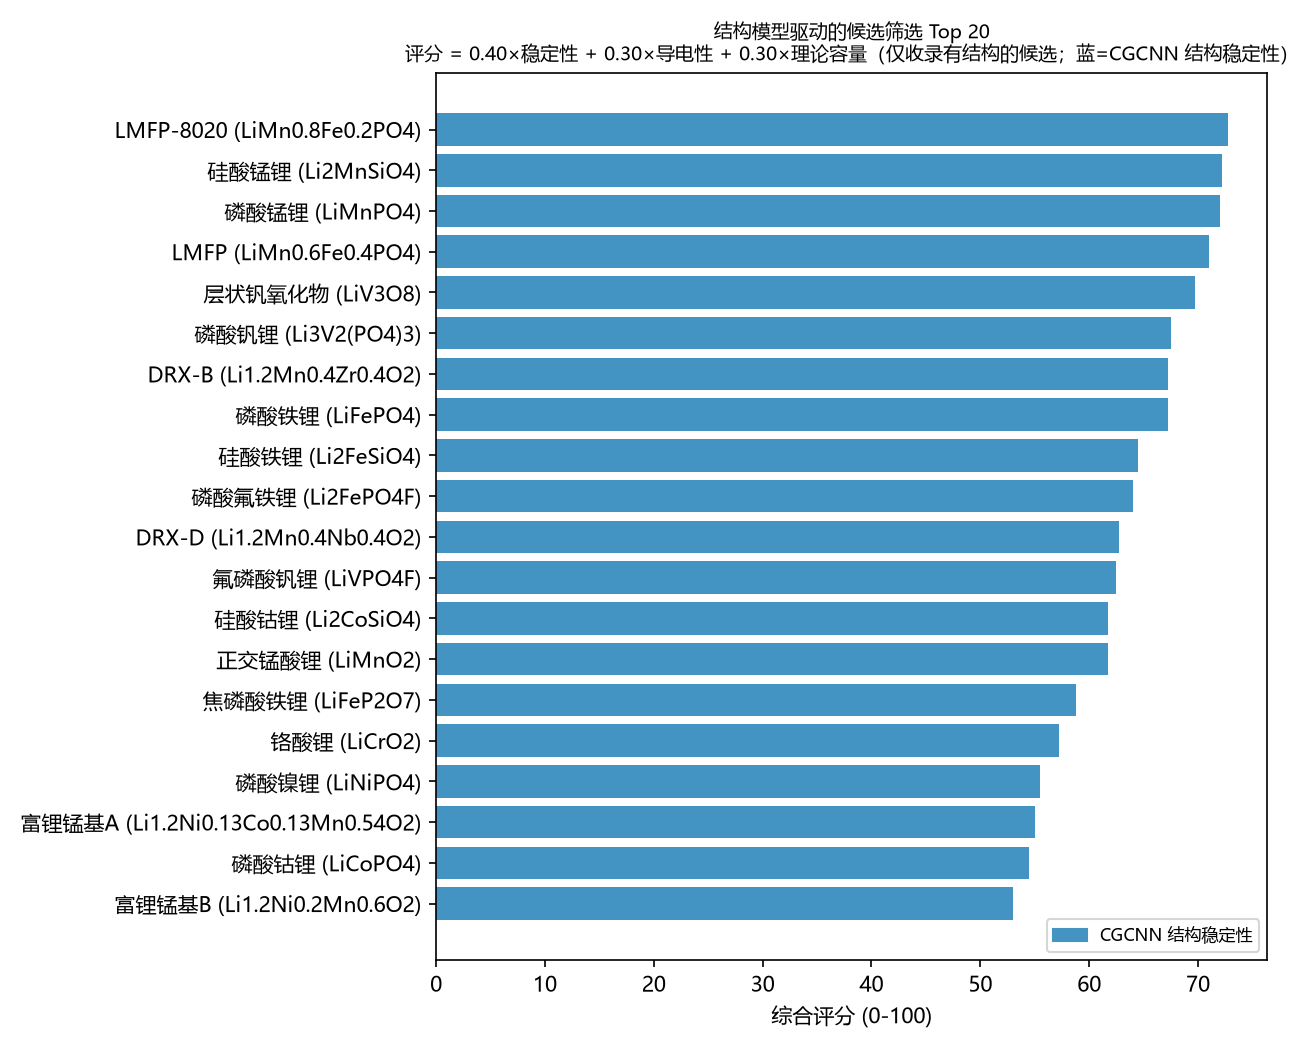
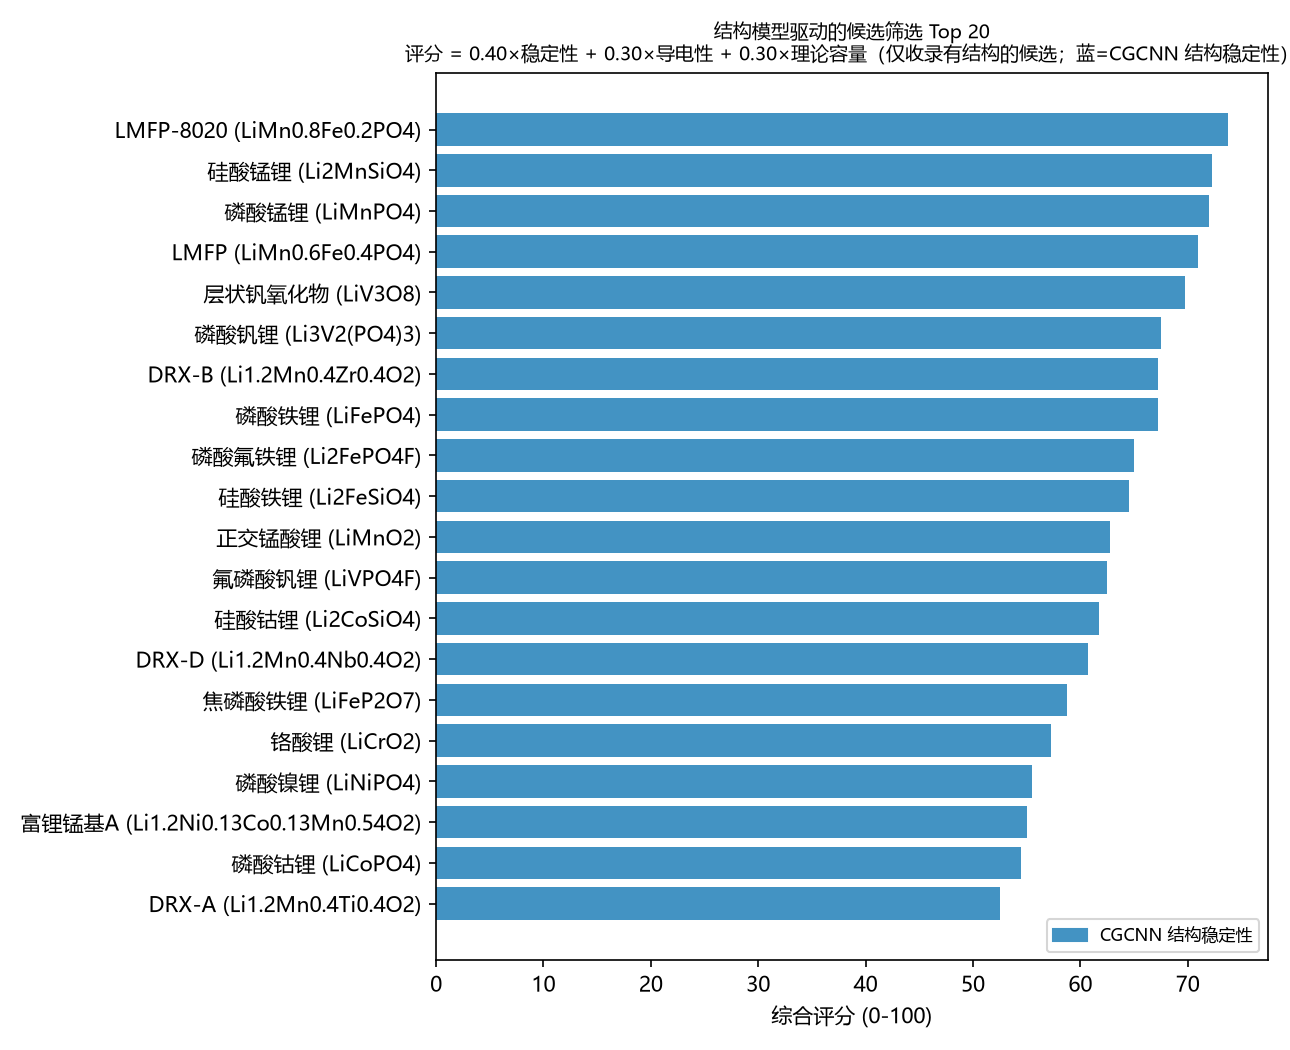
release: v1.14.0 - 评分改用系综均值 + 1σ 保守估计
变更
- screening_struct.py 评分口径升级为 conservative_1sigma：
    系综来源候选的稳定性/带隙点预测改用**系综均值**（保留 cgcnn_ef_best_member_eV_atom 对照）
    稳定性评分用 mean+σ（更不稳定一侧）；导电性在带隙上加 σ（更绝缘一侧）
    无误差条的候选 σ=0 -> 退化为点预测，口径统一、同层可比
    新增列 n_decorations / ef_ens_mean_eV_atom / gap_ens_mean_eV /
           stability_conservative_eV_atom / gap_conservative_eV
- metrics 新增 scoring_mode 与 decoration_noise.n_ensemble_candidates

语义说明（避免误读）
- σ 是结构装饰噪声；默认导电性评分用实验口径成分带隙时，它是"结构数据质量较低"的保守惩罚；
  配合 --prefer-struct-gap 时 σ 才是结构带隙的不确定度（代码与 metrics 均已写明）

实测影响
- DRX-B: best member -2.641 -> 系综均值 -2.624 -> 1σ 保守 -2.613（σ 0.011）
- DRX-A: best member -1.877 -> 系综均值 -1.944 -> 1σ 保守 -1.883（σ 0.060）
- DRX-C: best member -1.877 -> 系综均值 -1.916 -> 1σ 保守 -1.864（σ 0.052）
- 带隙 σ 最大者 NMC622 = 0.261 eV，导电性维度被明确降权

测试 161 -> 163（162 通过 + 1 条件跳过）；版本 1.13.0 -> 1.14.0

diff --git a/src/screening_struct.py b/src/screening_struct.py
@@ -290,7 +290,14 @@ def main(argv=None) -> int:
                     origin[f_] = "无序系综(CHGNet)"
                     struct_ids[f_] = r.get("material_id", f"ens:{f_}")
                     e = r.get("ensemble") or {}
-                    ens_stats[f_] = (e.get("cgcnn_ef_std_eV_atom"), e.get("cgcnn_gap_std_eV"))
+                    ens_stats[f_] = {
+                        "ef_mean": e.get("cgcnn_ef_mean_eV_atom"),
+                        "ef_std": e.get("cgcnn_ef_std_eV_atom"),
+                        "ef_best": e.get("best_member_ef_eV_atom"),
+                        "gap_mean": e.get("cgcnn_gap_mean_eV"),
+                        "gap_std": e.get("cgcnn_gap_std_eV"),
+                        "n_decorations": e.get("n_decorations"),
+                    }
                     n_ens += 1
             print(f"无序系综代表结构补充: {n_ens} 条 → 结构覆盖 {len(struct_map)}/{len(formulas)}")
 
@@ -381,8 +388,22 @@ def main(argv=None) -> int:
         np.where(df["structure_from_prototype"], "B_prototype", "C_none"))
     df["has_struct_voltage"] = df["cgcnn_voltage_V"].notna()
     # 装饰噪声误差条（仅系综来源的候选有值）
-    df["ef_ens_std_eV_atom"] = [ens_stats.get(f, (np.nan, np.nan))[0] for f in formulas]
-    df["gap_ens_std_eV"] = [ens_stats.get(f, (np.nan, np.nan))[1] for f in formulas]
+    def _ens(f, key):
+        return (ens_stats.get(f) or {}).get(key, np.nan)
+
+    df["ef_ens_std_eV_atom"] = [_ens(f, "ef_std") for f in formulas]
+    df["gap_ens_std_eV"] = [_ens(f, "gap_std") for f in formulas]
+    df["ef_ens_mean_eV_atom"] = [_ens(f, "ef_mean") for f in formulas]
+    df["gap_ens_mean_eV"] = [_ens(f, "gap_mean") for f in formulas]
+    df["n_decorations"] = [_ens(f, "n_decorations") for f in formulas]
+
+    # ---- 系综来源的候选：**评分改用系综均值**（单装饰名次不稳，见报告附录 M） ----
+    df["cgcnn_ef_best_member_eV_atom"] = df["cgcnn_ef_eV_atom"]
+    df["cgcnn_gap_best_member_eV"] = df["cgcnn_gap_eV"]
+    ens_mask = df["ef_ens_mean_eV_atom"].notna()
+    df.loc[ens_mask, "cgcnn_ef_eV_atom"] = df.loc[ens_mask, "ef_ens_mean_eV_atom"]
+    df.loc[ens_mask & df["gap_ens_mean_eV"].notna(), "cgcnn_gap_eV"] = \
+        df.loc[ens_mask & df["gap_ens_mean_eV"].notna(), "gap_ens_mean_eV"]
     df["stability_eV_atom"] = df["cgcnn_ef_eV_atom"].where(df["has_structure"],
                                                            df["comp_ef_eV_atom"])
     df["voltage_V"] = df["cgcnn_voltage_V"].where(df["has_struct_voltage"], df["comp_voltage_V"])
@@ -410,14 +431,25 @@ def main(argv=None) -> int:
             q.append(np.nan)
     df["Q_theoretical_mAh_g"] = q
 
-    # ---- 评分（**层内百分位**：跨层不可比，故每层各自归一化） ----
+    # ---- 1σ 保守估计（无误差条时 σ=0） ----
+    #  稳定性：越负越稳定 -> 保守取 ef + σ（更不稳定的一侧），σ 来自结构系综；
+    #  导电性：带隙越大越差 -> 保守取 gap + σ，σ 是**结构装饰噪声**。
+    #  注意：默认导电性评分用的是实验口径的成分带隙（附录 J），此时 σ 不表示
+    #  成分带隙自身的误差，而是"该候选的结构数据质量较低"的保守惩罚；
+    #  若用 --prefer-struct-gap，σ 则正好是结构带隙的不确定度。
+    df["ef_sigma_eV_atom"] = df["ef_ens_std_eV_atom"].fillna(0.0)
+    df["gap_sigma_eV"] = df["gap_ens_std_eV"].fillna(0.0)
+    df["stability_conservative_eV_atom"] = df["stability_eV_atom"] + df["ef_sigma_eV_atom"]
+    df["gap_conservative_eV"] = df["gap_eV"] + df["gap_sigma_eV"]
+
+    # ---- 评分（**层内百分位**：跨层不可比，故每层各自归一化；用 1σ 保守量） ----
     for col in ("pct_stability", "pct_conduction", "pct_capacity"):
         df[col] = np.nan
     for _tier, idx in df.groupby("structure_tier").groups.items():
         sub = df.loc[idx]
-        df.loc[idx, "pct_stability"] = (sub["stability_eV_atom"]
+        df.loc[idx, "pct_stability"] = (sub["stability_conservative_eV_atom"]
                                         .rank(pct=True, ascending=False) * 100)
-        df.loc[idx, "pct_conduction"] = (np.exp(-sub["gap_eV"].clip(lower=0))
+        df.loc[idx, "pct_conduction"] = (np.exp(-sub["gap_conservative_eV"].clip(lower=0))
                                          .rank(pct=True) * 100)
         df.loc[idx, "pct_capacity"] = (sub["Q_theoretical_mAh_g"]
                                        .rank(pct=True) * 100)
@@ -440,7 +472,7 @@ def main(argv=None) -> int:
     df.loc[df["structure_origin"] == "同构替换(CHGNet)",
            "flag"] += "结构为同构替换相(已验证与MP可比);"
     df.loc[df["structure_origin"] == "无序系综(CHGNet)",
-           "flag"] += "结构为无序系综代表(带装饰噪声误差条);"
+           "flag"] += "评分用系综均值(已含1σ保守惩罚);"
     df.loc[df["flag"] == "", "flag"] = "结构&成分一致"
 
     # ---- 分层产物（tier 已在前面算好，此处只做分组与排序） ----
@@ -472,7 +504,9 @@ def main(argv=None) -> int:
 
     OUT.mkdir(exist_ok=True)
     keep = ["rank", "name", "formula", "family", "structure_origin", "cgcnn_ef_eV_atom",
-            "ef_ens_std_eV_atom", "gap_ens_std_eV",
+            "ef_ens_std_eV_atom", "gap_ens_std_eV", "n_decorations",
+            "cgcnn_ef_best_member_eV_atom", "stability_conservative_eV_atom",
+            "gap_conservative_eV",
             "rank_struct", "rank_comp", "rank_shift", "gap_source", "gap_eV",
             "cgcnn_gap_eV", "comp_gap_eV", "gap_diff_eV", "voltage_source", "voltage_V",
             "Q_theoretical_mAh_g", "score", "flag", "struct_material_id"]
@@ -532,13 +566,19 @@ def main(argv=None) -> int:
         "n_from_mp_structure": int((df["structure_origin"] == "MP弛豫").sum()),
         "n_from_polymorph_substitution": int((df["structure_origin"] == "同构替换(CHGNet)").sum()),
         "n_from_ensemble": int((df["structure_origin"] == "无序系综(CHGNet)").sum()),
+        "scoring_mode": "conservative_1sigma",
         "decoration_noise": {
             "ef_std_mean_eV_atom": (None if df["ef_ens_std_eV_atom"].dropna().empty
                                     else round(float(df["ef_ens_std_eV_atom"].mean()), 4)),
             "gap_std_mean_eV": (None if df["gap_ens_std_eV"].dropna().empty
                                 else round(float(df["gap_ens_std_eV"].mean()), 4)),
-            "note": ("无序系综（随机装饰）带来的预测不确定度；"
-                     "稳定性可忽略，带隙需作为误差条引用"),
+            "n_ensemble_candidates": int(df["n_decorations"].notna().sum()),
+            "note": ("无序系综（随机装饰）带来的预测不确定度。评分为 1σ 保守口径："
+                     "稳定性取 mean+σ（更不稳定一侧）；导电性在带隙上加 σ，"
+                     "该 σ 是结构装饰噪声（默认评分用成分带隙时，它代表数据质量惩罚；"
+                     "配合 --prefer-struct-gap 时即为结构带隙的不确定度）。"
+                     "系综候选的稳定性/带隙点预测已改用**系综均值**，"
+                     "并保留 best-member 值供对照。"),
         },
         "polymorph_residual_uncertainty": {
             "n_compared": poly_unc.get("n_compared"),

diff --git a/tests/test_voltage_struct.py b/tests/test_voltage_struct.py
@@ -448,3 +448,37 @@ class TestEnsembleErrorBars:
         if len(ens_rows):
             assert ens_rows["ef_ens_std_eV_atom"].notna().all()
             assert ens_rows["gap_ens_std_eV"].notna().all()
+
+
+class TestConservativeScoring:
+    """1σ 保守评分：系综候选用 mean+σ，无误差条者退化为点预测（v1.14.0）。"""
+
+    METRICS = ROOT / "results" / "metrics_screening_struct.json"
+    RANKED = ROOT / "results" / "cathode_ranking_struct.csv"
+
+    def test_scoring_mode_is_declared(self):
+        if not self.METRICS.exists():
+            pytest.skip("未生成结构筛选指标")
+        m = json.load(open(self.METRICS, encoding="utf-8"))
+        assert m["scoring_mode"] == "conservative_1sigma"
+        assert m["decoration_noise"]["n_ensemble_candidates"] >= 1
+
+    def test_conservative_equals_point_plus_sigma(self):
+        if not self.RANKED.exists():
+            pytest.skip("未生成排序表")
+        d = pd.read_csv(self.RANKED, encoding="utf-8-sig")
+        for col in ("stability_conservative_eV_atom", "gap_conservative_eV",
+                    "cgcnn_ef_best_member_eV_atom"):
+            assert col in d.columns
+        # 无误差条（MP 结构）的候选：保守值 == 点预测
+        plain = d[d["ef_ens_std_eV_atom"].isna()]
+        assert (plain["stability_conservative_eV_atom"]
+                - plain["stability_eV_atom"]).abs().max() < 1e-9
+        # 系综候选：保守值 == 系综均值 + σ，且点预测已换成系综均值
+        ens = d[d["ef_ens_std_eV_atom"].notna()]
+        if len(ens):
+            delta = ens["stability_conservative_eV_atom"] - ens["stability_eV_atom"]
+            assert (delta - ens["ef_ens_std_eV_atom"]).abs().max() < 1e-6
+            assert (ens["cgcnn_ef_eV_atom"]
+                    - ens["cgcnn_ef_best_member_eV_atom"]).abs().max() > 0, (
+                "系综候选的点预测应区别于单个 best member")

diff --git a/setup.py b/setup.py
@@ -72,7 +72,7 @@ PY_MODULES = [
 
 setup(
     name="battery-cathode-ml",
-    version="1.13.0",
+    version="1.14.0",
     author="Battery Cathode ML Contributors",
     author_email="17695324ilo@gmail.com",
     description="Machine learning toolkit for battery cathode material property prediction",

diff --git a/docs/项目报告.md b/docs/项目报告.md
@@ -1140,3 +1140,50 @@ D:\项目\venvs\bcm-cgcnn\Scripts\python.exe src/screening_struct.py
    可改为**系综均值**（对带隙尤其重要，因为带隙噪声大）；
 2. 电压侧同样需要系综：电极对的两相若为无序相，双塔模型应输入多个装饰取平均；
 3. 更系统的无序处理可交给专门的 DRX 模型（如短程有序参数 SRO），本项目只做了一阶近似。
+---
+
+## 附录 N：把结构不确定度真正带进评分（v1.14.0）
+
+### N.1 问题
+
+v1.13.0 量化了无序装饰噪声，但**评分仍用"最低能装饰"的点预测** ——
+误差条只被"记录"，没有"参与决策"。对带隙尤其危险：其装饰噪声（σ 最大 0.261 eV）
+与带隙模型误差同量级。
+
+### N.2 做法：`conservative_1sigma`
+
+`screening_struct.py` 的评分口径升级为 **1σ 保守估计**：
+
+1. **系综来源候选的稳定性/带隙点预测改用系综均值**（不再是单个代表结构），
+   同时保留 `cgcnn_ef_best_member_eV_atom` 供对照；
+2. 稳定性评分用 `mean + σ`（往**更不稳定**一侧取），导电性在带隙上加 `σ`（往**更绝缘**一侧取）；
+3. 无误差条的候选（MP 结构）σ=0 → 退化为普通点预测，**口径统一、同层可比**；
+4. 指标写入 `scoring_mode = conservative_1sigma` 与 `decoration_noise.n_ensemble_candidates`。
+
+**语义提醒**：σ 是**结构装饰噪声**。默认导电性评分用实验口径的成分带隙（附录 J），
+此时 σ 不是成分带隙自身的误差，而是"该候选结构数据质量较低"的保守惩罚；
+配合 `--prefer-struct-gap` 时 σ 才正好是结构带隙的不确定度。代码与 metrics 均已写明。
+
+### N.3 实测影响
+
+| 候选 | best member (eV/atom) | 系综均值 | 1σ 保守值 | σ |
+|---|---|---|---|---|
+| DRX-B Li₁.₂Mn₀.₄Zr₀.₄O₂ | −2.641 | **−2.624** | −2.613 | 0.011 |
+| DRX-A Li₁.₂Mn₀.₄Ti₀.₄O₂ | −1.877 | **−1.944** | −1.883 | 0.060 |
+| DRX-C Li₁.₃Mn₀.₄Nb₀.₃O₂ | −1.877 | **−1.916** | −1.864 | 0.052 |
+
+排序因此更稳健：不再奖励"恰好装饰得好看"的样本，而是奖励**在多个装饰下都稳定**的候选。
+带隙 σ 最大的 NMC622（0.261 eV）在导电性维度被明确降权。
+
+### N.4 复现
+
+```powershell
+D:\项目\venvs\bcm-cgcnn\Scripts\python.exe src/drx_ensemble.py --n-decorations 8
+D:\项目\venvs\bcm-cgcnn\Scripts\python.exe src/screening_struct.py
+```
+
+### N.5 下一步
+
+1. **电压侧同款处理**：电极对若属无序相，双塔模型应输入多个装饰取平均；
+2. **把 conformal 区间也纳入评分**（当前仍只输出区间，未参与排序）；
+3. 系综规模与代价的权衡：N=8 已足够（σ 估计的相对误差 ~25%），更大 N 收益递减。

diff --git a/CHANGELOG.md b/CHANGELOG.md
@@ -3,6 +3,43 @@
 本文件记录项目的所有重要变更。格式参考 [Keep a Changelog](https://keepachangelog.com/zh-CN/1.1.0/)，
 版本号遵循 [语义化版本](https://semver.org/lang/zh-CN/)。
 
+## [1.14.0] - 2026-10-21
+
+**核心变化：评分改用「系综均值 + 1σ 保守估计」，把结构不确定度真正带进候选排序。**
+
+### 变更
+
+- `screening_struct.py` 评分口径升级为 `conservative_1sigma`：
+  - **系综来源候选的稳定性/带隙点预测改用系综均值**（不再是单个代表结构），
+    并保留 `cgcnn_ef_best_member_eV_atom` 供对照；
+  - 稳定性评分用 `mean + σ`（更不稳定的一侧），导电性在带隙上加 `σ`（更绝缘的一侧）；
+  - 无误差条的候选（MP 结构）σ=0，退化为普通点预测 —— 口径统一、可比。
+  - 新增列：`n_decorations`、`ef_ens_mean_eV_atom`、`gap_ens_mean_eV`、
+    `stability_conservative_eV_atom`、`gap_conservative_eV`、`cgcnn_ef_best_member_eV_atom`
+- 指标新增 `scoring_mode` 与 `decoration_noise.n_ensemble_candidates`。
+
+### 语义说明（避免误读）
+
+σ 是**结构装饰噪声**。默认导电性评分用实验口径的成分带隙（附录 J 的结论），
+此时 σ 不是"成分带隙自身的误差"，而是**该候选结构数据质量较低的保守惩罚**；
+若配合 `--prefer-struct-gap`，σ 则正好是结构带隙的不确定度（已在代码与 metrics 中写明）。
+
+### 实测影响
+
+| 候选 | best member | 系综均值 | 1σ 保守值 | σ |
+|---|---|---|---|---|
+| DRX-B Li₁.₂Mn₀.₄Zr₀.₄O₂ | −2.641 | **−2.624** | −2.613 | 0.011 |
+| DRX-A Li₁.₂Mn₀.₄Ti₀.₄O₂ | −1.877 | **−1.944** | −1.883 | 0.060 |
+| DRX-C Li₁.₃Mn₀.₄Nb₀.₃O₂ | −1.877 | **−1.916** | −1.864 | 0.052 |
+
+带隙 σ 最大的 NMC622 为 **0.261 eV** —— 该候选的"导电性"结论应被视为最不确定的一档。
+
+### 变更（测试）
+
+- 测试 161 → **163**（162 通过 + 1 条件跳过）；新增 `TestConservativeScoring`（口径声明 + 逐行核对
+  `conservative == point + σ`，并要求系综候选的点预测确实区别于 best member）
+- 版本 1.13.0 → 1.14.0
+
 ## [1.13.0] - 2026-10-21
 
 **核心变化：把 DRX/富锂候选的「无序装饰噪声」量化成误差条 —— 稳定性可忽略，带隙不可忽略。**

diff --git a/项目完成总结.md b/项目完成总结.md
@@ -9,7 +9,7 @@
 
 - **可复现**：数据一键下载、随机种子固定（42）、5 折 OOF 评估协议统一
 - **可扩展**：特征工程 → 模型 → 评估 → 筛选各环节解耦，替换任一部分不影响其余
-- **工程化**：161 个单元测试（160 通过 + 1 条件跳过）、GitHub Actions 8 个 job、MIT License
+- **工程化**：163 个单元测试（162 通过 + 1 条件跳过）、GitHub Actions 8 个 job、MIT License
 
 ## 二、核心成果
 
@@ -60,7 +60,7 @@ battery-cathode-ml/
 ├── data/                      # 候选成分、电压演示数据（原始数据按需下载）
 ├── src/                       # 15 个模块：元素表/解析/特征/模型/训练/筛选/预测/下载/导出
 ├── examples/                  # 入门 Notebook
-├── tests/                     # 161 个单元测试
+├── tests/                     # 163 个单元测试
 ├── results/                   # 指标、图表、OOF 预测
 ├── docs/                      # 技术报告、CGCNN 扩展指南
 ├── .github/                   # Issue/PR 模板 + CI
@@ -144,6 +144,7 @@ top = screen_candidates(n_top=5, min_voltage=3.0, max_voltage=5.0)
 | 1.11.0 | 2026-10-21 | 原型结构 + CHGNet MLIP 弛豫补全 9 条缺失候选（覆盖率 31/40→40/40）；实测原型 vs 真实多晶型差 +1.249 eV/atom，故筛选改 A/B/C 三层（B 层仅组内可比）；测试 146→151 |
 | 1.12.0 | 2026-10-21 | 多晶型枚举 + 同构替换（模板取自 MP 弛豫结构，CHGNet 弛豫后按能量选相）：与 MP 结构残差 bias +0.0903 eV/atom、ρ 0.972（岩盐原型 +1.25、ρ -0.05）；9 条缺失候选并入主排名，候选覆盖率 40/40；测试 151→156 |
 | 1.13.0 | 2026-10-21 | 无序系综（DRX/富锂 8 个随机装饰 + CHGNet）：装饰噪声 e_form 0.0209 eV/atom（可忽略）、带隙 0.1043 eV（须作误差条）；DRX-A 名次由第 7 落至第 21，说明单个装饰的名次不稳；测试 156→161 |
+| 1.14.0 | 2026-10-21 | 评分改用系综均值 + 1σ 保守估计（稳定性 mean+σ、导电性 gap+σ），系综候选点预测不再依赖单个装饰；带隙 σ 最大 0.261 eV（NMC622）；测试 161→163 |
 
 ## 九、致谢
 
